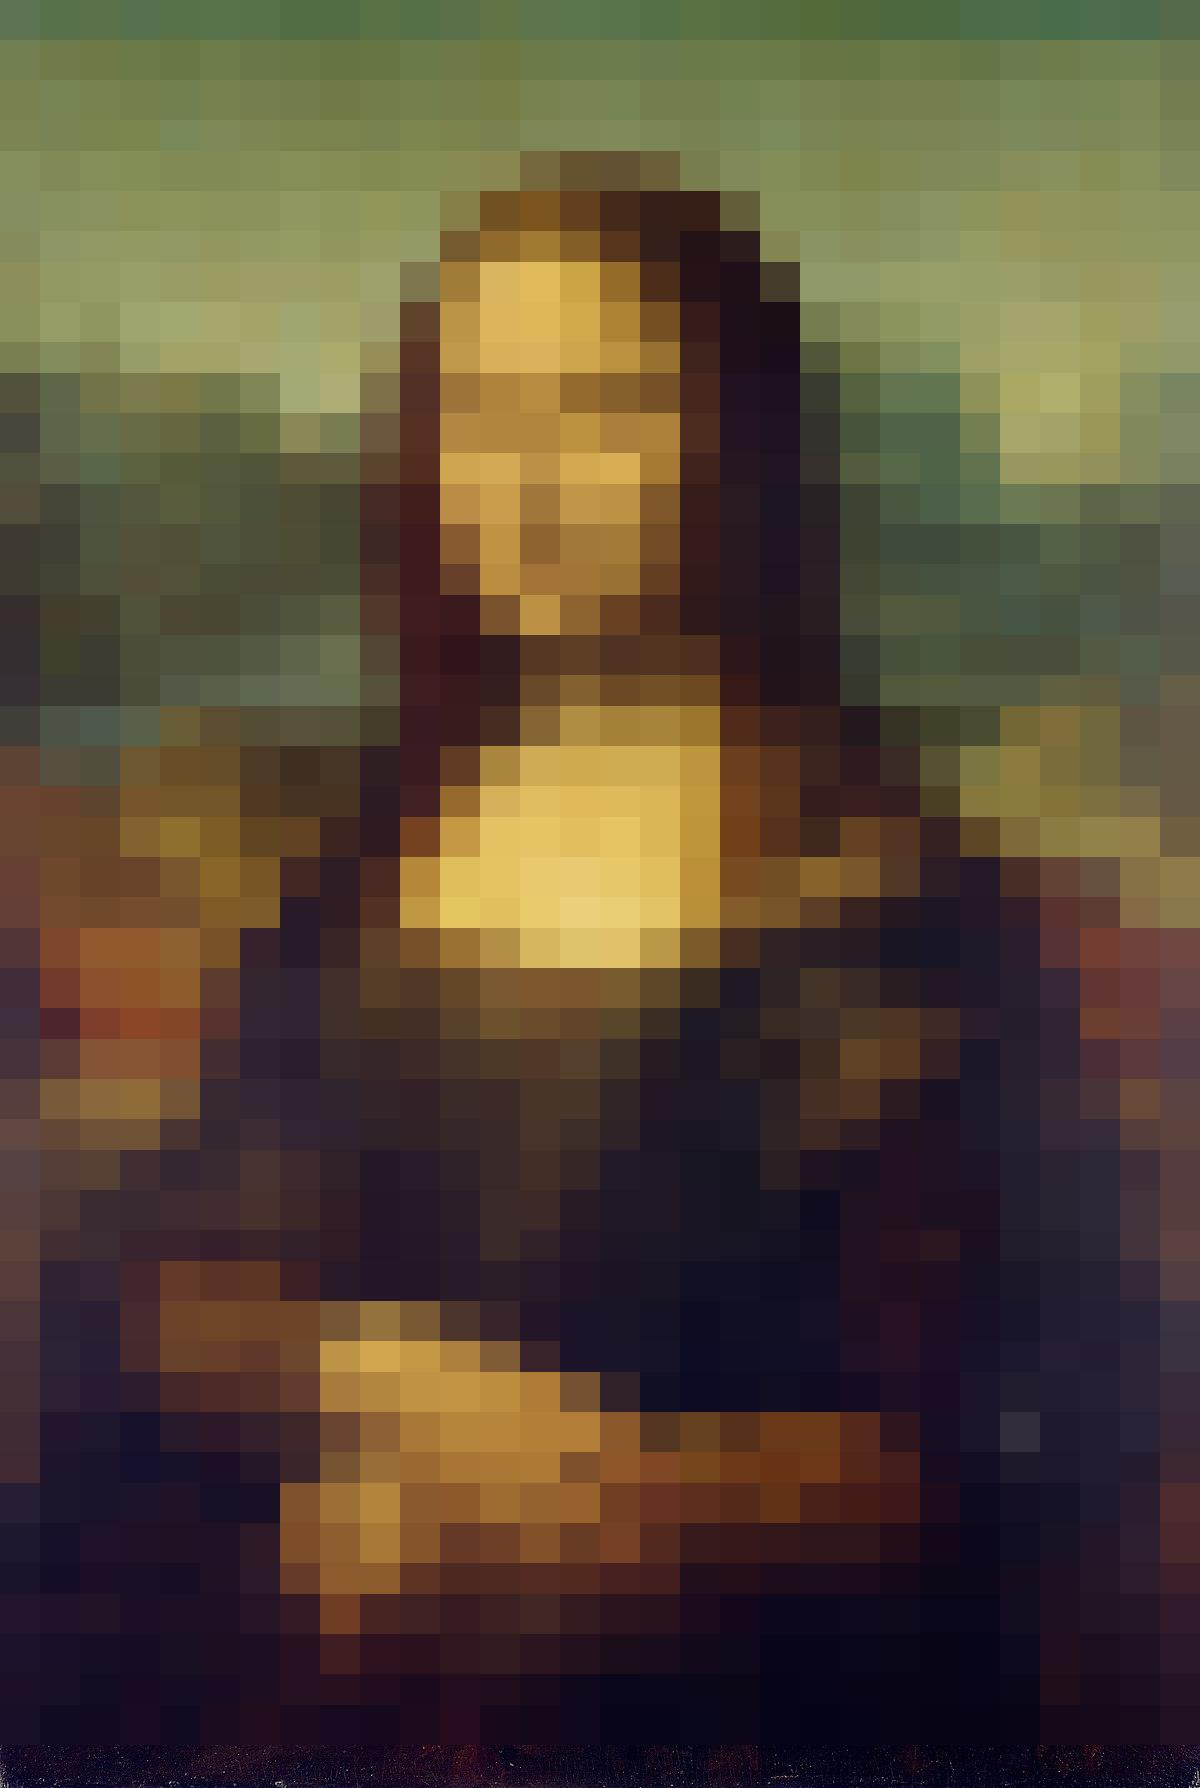
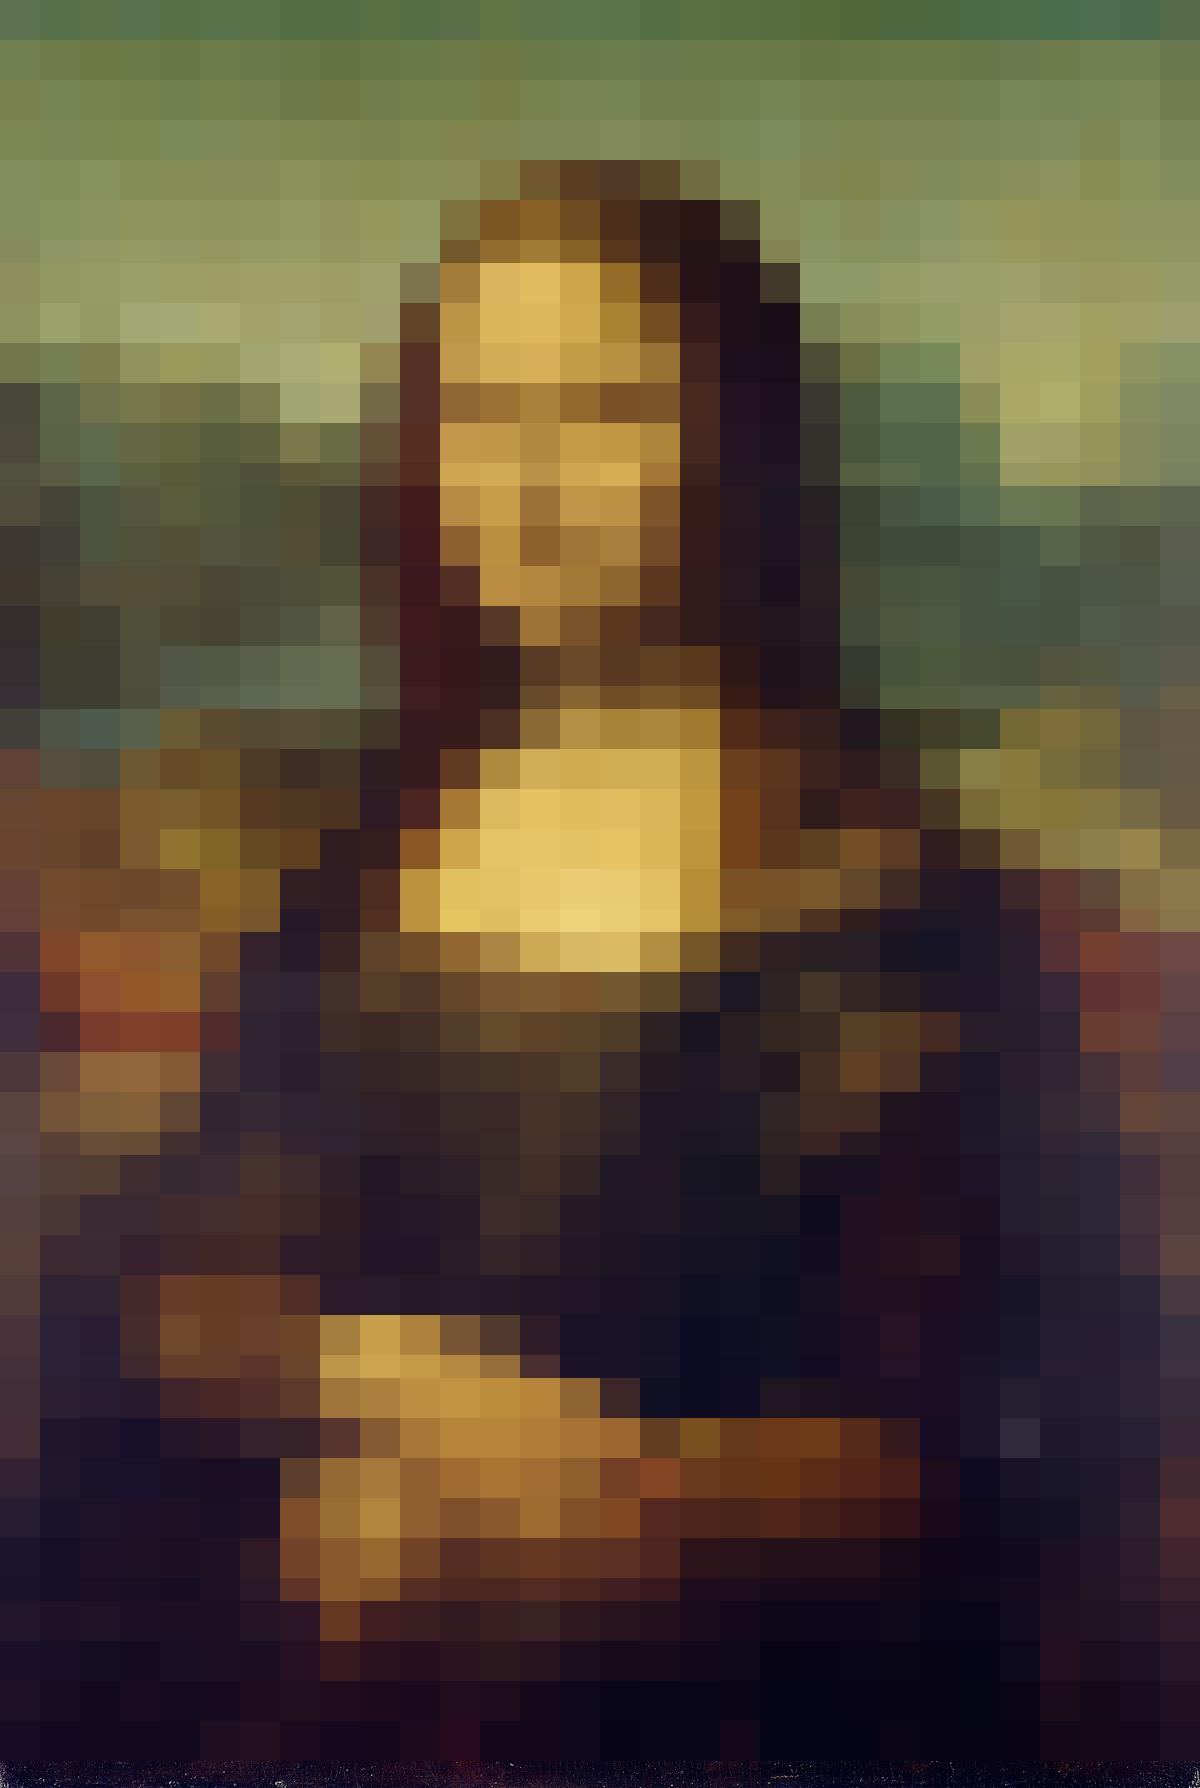
Fixed painting bug

diff --git a/Parallel.java b/Parallel.java
@@ -13,10 +13,10 @@ public class Parallel extends Thread{
     private final int idx;
     private final int threadCount;
 
-    public Parallel(int i,int c,BufferedImage image,int size, JFrame framex){
+    public Parallel(int i,int numThreads,BufferedImage image,int size, JFrame framex){
         super();
         idx =i;
-        threadCount = c;
+        threadCount = numThreads;
         img = image;
         squareSize = size;
         frame=framex;
@@ -106,6 +106,7 @@ public class Parallel extends Thread{
             // update frame icon
             ImageIcon icon=new ImageIcon(img);
             lbl.setIcon(icon);
+            frame.repaint();
             frame.add(lbl);
             frame.setVisible(true);
         }

diff --git a/processImage.java b/processImage.java
@@ -39,7 +39,7 @@ public class processImage {
 
             
             // number of threads that will be used
-            int threadCount = args.length!=4 ? cores*2 : Integer.parseInt(args[3]);
+            int threadCount = args.length==4 ? Integer.parseInt(args[3]) : cores;
             System.out.println("Number of threads: " + threadCount);
 
             JFrame frame=new JFrame();
